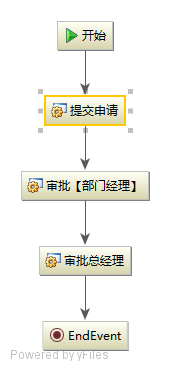
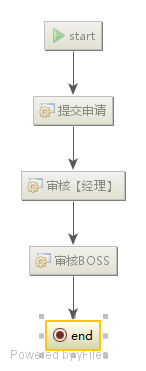
可以用

Changed region(s): [[0.0548, 0.6523, 0.8219, 0.9784], [0.2192, 0.0593, 0.7945, 0.4447], [0.1096, 0.4447, 0.9041, 0.6523]]

diff --git a/work-demo/src/main/java/com/flow/all/Test.java b/work-demo/src/main/java/com/flow/all/Test.java
@@ -4,6 +4,13 @@ import org.activiti.engine.ProcessEngine;
 import org.activiti.engine.ProcessEngineConfiguration;
 import org.activiti.engine.ProcessEngines;
 import org.activiti.engine.repository.Deployment;
+import org.activiti.engine.runtime.ProcessInstance;
+import org.activiti.engine.task.Task;
+
+import java.text.SimpleDateFormat;
+import java.util.Calendar;
+import java.util.Date;
+import java.util.List;
 
 /**
  * Created by Administrator on 2018-4-12.
@@ -21,13 +28,52 @@ public class Test {
                         beanName);
         ProcessEngine processEngine = conf.buildProcessEngine();
     }
+
+    /**
+     * 启动流程引擎
+     * @throws Exception
+     */
     @org.junit.Test
     public  void deploy() throws Exception{
         ProcessEngine defaultProcessEngine = ProcessEngines.getDefaultProcessEngine();
         Deployment deploy = defaultProcessEngine.getRepositoryService().
                 createDeployment().
-                addClasspathResource("bpmn/MyDocument.bpmn").
-                addClasspathResource("bpmn/MyDocument.png").deploy();
+                addClasspathResource("bpmn/test.bpmn").
+                addClasspathResource("bpmn/test.png").deploy();
         System.out.println(deploy.getName());
     }
+
+    /**
+     * 开启流程
+     *
+     */
+    @org.junit.Test
+    public  void startProcess(){
+        ProcessEngine defaultProcessEngine = ProcessEngines.getDefaultProcessEngine();
+        ProcessInstance myProcess = defaultProcessEngine.getRuntimeService().startProcessInstanceByKey("myProcess");
+        System.out.println("pid:"+myProcess.getId()+",,,activitid:"+myProcess.getActivityId());
+    }
+
+    @org.junit.Test
+    public void queryMytask(){
+        String assign="张三";
+        ProcessEngine defaultProcessEngine = ProcessEngines.getDefaultProcessEngine();
+        List<Task> list = defaultProcessEngine.getTaskService()
+                .createTaskQuery()
+                .taskAssignee(assign)
+                .list();
+        for(Task item : list){
+            System.out.println("taskid:"+item.getId()+",taskname:"+item.getName());
+            System.out.println("------------------------");
+        }
+    }
+    @org.junit.Test
+    public void testxuhuan(){
+        Calendar cal = Calendar.getInstance();
+        for(int i=0;i<10;i++,cal.add(Calendar.DATE,1)){
+            Date time = cal.getTime();
+            System.out.println(new SimpleDateFormat("yyyy-MM-dd").format(time));
+        }
+    }
+
 }
